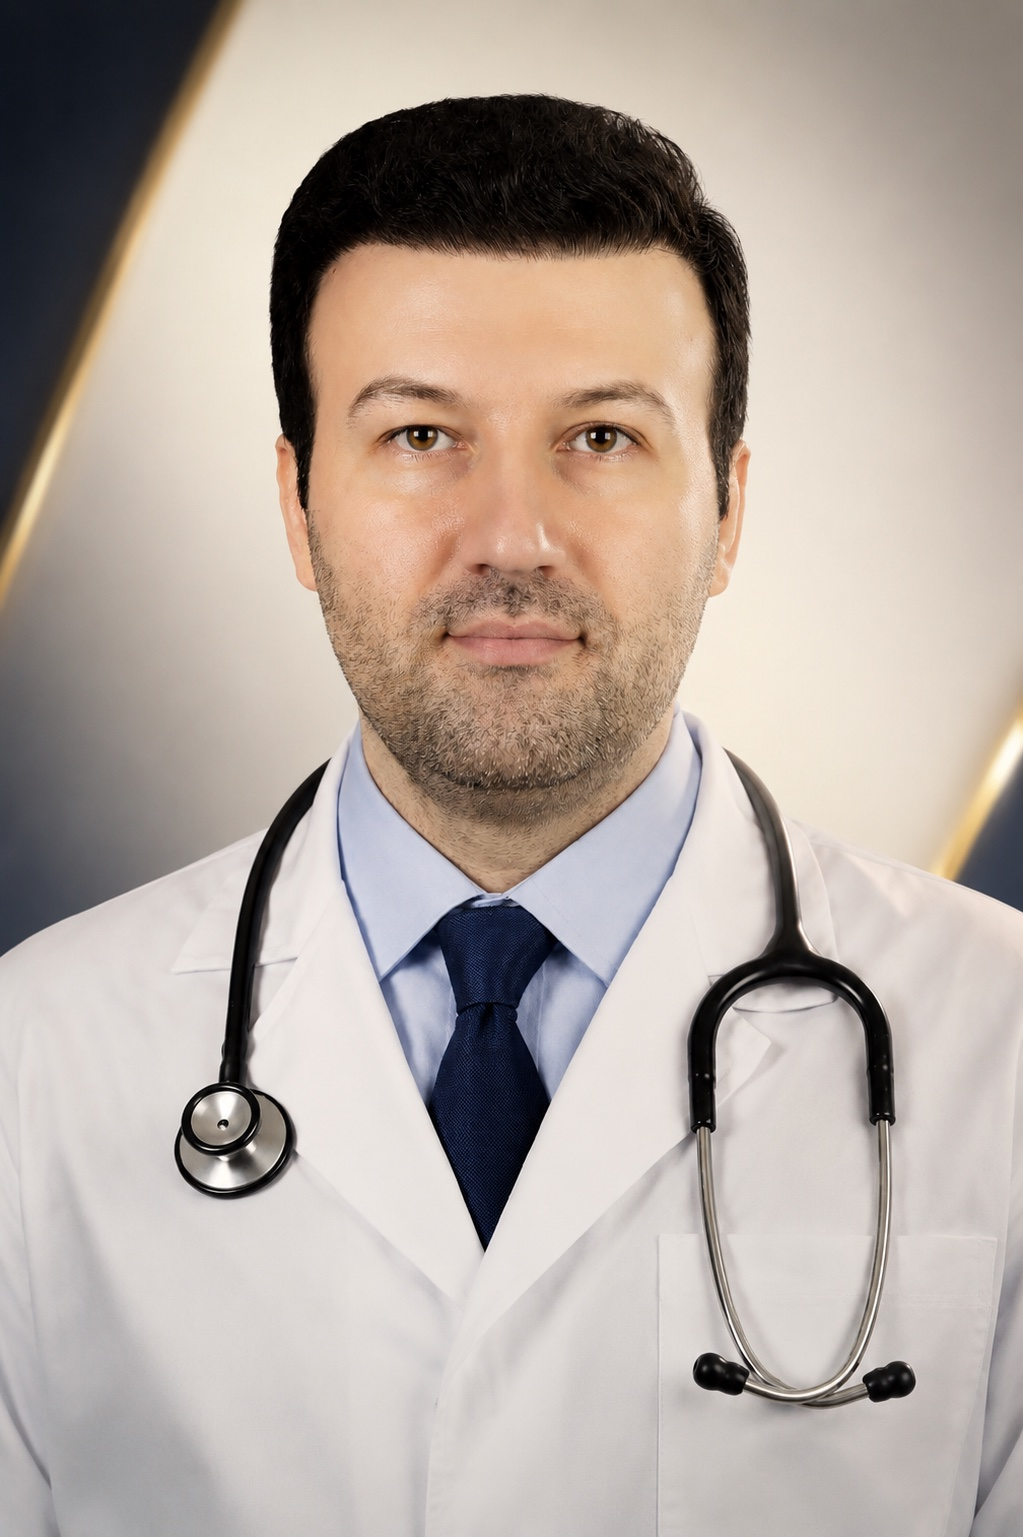
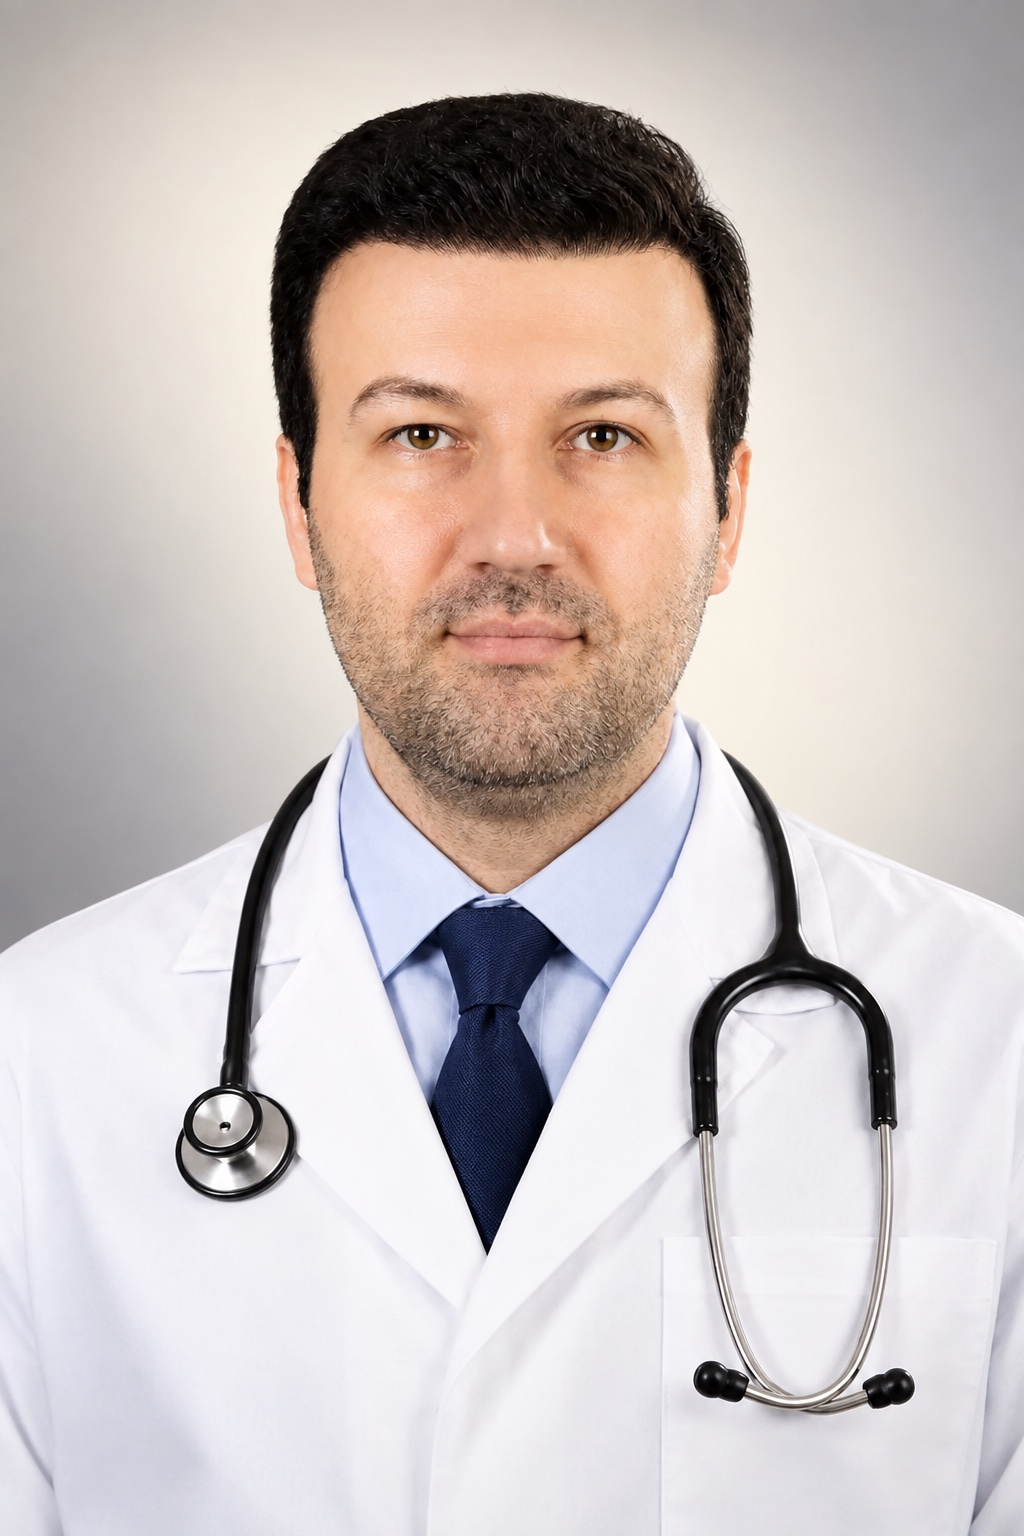
feat: improve contact and care experience

diff --git a/src/components/sections/homepage-care-section.tsx b/src/components/sections/homepage-care-section.tsx
@@ -1,0 +1,114 @@
+"use client";
+
+import { motion, useReducedMotion } from "framer-motion";
+
+import type { CareInstructionsPageDictionary } from "@/i18n/dictionary-types";
+import { localeHref } from "@/i18n/locale-href";
+import { LOCALE_DIRECTION, type Locale } from "@/i18n/locales";
+
+function CareStageIcon({ index }: { index: number }) {
+  if (index === 0) {
+    return (
+      <svg viewBox="0 0 24 24" fill="none" stroke="currentColor" strokeWidth={1.5} className="h-5 w-5 sm:h-6 sm:w-6">
+        <path d="M7 3v3M17 3v3M4.5 9h15M6 5h12a2 2 0 0 1 2 2v12H4V7a2 2 0 0 1 2-2Z" strokeLinecap="round" />
+        <path d="m9 14 2 2 4-4" strokeLinecap="round" strokeLinejoin="round" />
+      </svg>
+    );
+  }
+
+  if (index === 1) {
+    return (
+      <svg viewBox="0 0 24 24" fill="none" stroke="currentColor" strokeWidth={1.5} className="h-5 w-5 sm:h-6 sm:w-6">
+        <path d="M12 21a9 9 0 1 0 0-18 9 9 0 0 0 0 18Z" />
+        <path d="M12 7v10M7 12h10" strokeLinecap="round" />
+      </svg>
+    );
+  }
+
+  return (
+    <svg viewBox="0 0 24 24" fill="none" stroke="currentColor" strokeWidth={1.5} className="h-5 w-5 sm:h-6 sm:w-6">
+      <path d="M12 21a9 9 0 1 0 0-18 9 9 0 0 0 0 18Z" />
+      <path d="M12 8v5M12 16.5v.2" strokeLinecap="round" />
+    </svg>
+  );
+}
+
+export function HomepageCareSection({ dict, locale }: { dict: CareInstructionsPageDictionary; locale: Locale }) {
+  const shouldReduceMotion = useReducedMotion();
+  const stages = [dict.detail.beforeHeading, dict.detail.afterHeading, dict.detail.warningSignsHeading];
+
+  const fadeUp = (delay: number) => ({
+    initial: shouldReduceMotion ? false : { opacity: 0, y: 18 },
+    whileInView: shouldReduceMotion ? undefined : { opacity: 1, y: 0 },
+    viewport: { once: true, amount: 0.25 },
+    transition: { duration: shouldReduceMotion ? 0.01 : 0.55, delay: shouldReduceMotion ? 0 : delay, ease: [0.22, 1, 0.36, 1] as const },
+  });
+
+  return (
+    <section
+      id="care"
+      data-header-bg="#faf7f1"
+      dir={LOCALE_DIRECTION[locale]}
+      className="snap-section relative flex h-dvh items-center overflow-hidden bg-warm-white px-4 py-6 sm:px-8 sm:py-10"
+    >
+      <div aria-hidden className="pointer-events-none absolute -end-24 -top-24 h-80 w-80 rounded-full bg-gold/10 blur-3xl sm:h-[420px] sm:w-[420px]" />
+      <div aria-hidden className="pointer-events-none absolute -bottom-32 -start-24 h-80 w-80 rounded-full bg-deep-navy/[0.04] blur-3xl sm:h-[420px] sm:w-[420px]" />
+
+      <div className="relative mx-auto w-full max-w-6xl">
+        <div className="grid items-end gap-3 lg:grid-cols-[1.1fr_0.9fr] lg:gap-16">
+          <div>
+            <motion.p {...fadeUp(0)} className="text-xs font-semibold uppercase tracking-[0.2em] text-gold">
+              {dict.eyebrow}
+            </motion.p>
+            <motion.h2 {...fadeUp(0.06)} className="mt-2 max-w-2xl text-2xl font-extrabold leading-tight text-deep-navy sm:mt-3 sm:text-4xl lg:text-[44px]">
+              {dict.homepageHeading}
+            </motion.h2>
+          </div>
+          <motion.p {...fadeUp(0.12)} className="max-w-xl text-sm leading-6 text-charcoal/65 sm:text-base sm:leading-8 lg:pb-1">
+            {dict.subheading}
+          </motion.p>
+        </div>
+
+        <motion.div
+          {...fadeUp(0.18)}
+          className="relative mt-6 overflow-hidden rounded-2xl border border-charcoal/10 bg-cream/70 px-4 py-5 shadow-[0_34px_90px_-58px_rgba(15,23,42,0.5)] sm:mt-10 sm:rounded-[32px] sm:px-8 sm:py-9 lg:px-12"
+        >
+          <div aria-hidden className="absolute inset-x-12 top-[3.65rem] hidden h-px bg-gradient-to-r from-transparent via-gold/40 to-transparent sm:block" />
+          <ol className="relative grid grid-cols-1 gap-3 sm:grid-cols-3 sm:gap-6">
+            {stages.map((stage, index) => (
+              <motion.li
+                key={stage}
+                initial={shouldReduceMotion ? false : { opacity: 0, y: 14 }}
+                whileInView={shouldReduceMotion ? undefined : { opacity: 1, y: 0 }}
+                viewport={{ once: true, amount: 0.35 }}
+                transition={{ duration: shouldReduceMotion ? 0.01 : 0.45, delay: shouldReduceMotion ? 0 : 0.24 + index * 0.08, ease: [0.22, 1, 0.36, 1] }}
+                className="relative flex items-center gap-3 rounded-xl border border-charcoal/[0.07] bg-warm-white/80 p-3 sm:flex-col sm:items-start sm:border-0 sm:bg-transparent sm:p-0"
+              >
+                <span className="relative z-10 flex h-10 w-10 shrink-0 items-center justify-center rounded-full border border-gold/35 bg-warm-white text-gold shadow-[0_8px_24px_-12px_rgba(183,142,70,0.55)] sm:h-12 sm:w-12">
+                  <CareStageIcon index={index} />
+                </span>
+                <div className="min-w-0 sm:mt-5">
+                  <span className="text-[10px] font-semibold tracking-[0.2em] text-charcoal/35">0{index + 1}</span>
+                  <h3 className="mt-0.5 text-sm font-bold leading-6 text-charcoal sm:mt-1 sm:text-base lg:text-lg">{stage}</h3>
+                </div>
+              </motion.li>
+            ))}
+          </ol>
+
+          <div className="mt-5 flex flex-col gap-4 border-t border-charcoal/10 pt-5 sm:mt-8 sm:flex-row sm:items-center sm:justify-between sm:pt-7">
+            <p className="max-w-2xl text-xs leading-5 text-charcoal/55 sm:text-sm sm:leading-7">{dict.trustNote}</p>
+            <a
+              href={localeHref(locale, "/care-instructions")}
+              className="inline-flex w-fit shrink-0 items-center gap-2 rounded-full bg-deep-navy px-5 py-2.5 text-xs font-semibold text-warm-white transition-[background-color,color,transform] duration-300 hover:-translate-y-0.5 hover:bg-gold hover:text-deep-navy focus-visible:outline-2 focus-visible:outline-offset-2 focus-visible:outline-gold sm:px-6 sm:py-3 sm:text-sm"
+            >
+              {dict.homepageCta}
+              <svg aria-hidden viewBox="0 0 20 20" fill="none" stroke="currentColor" strokeWidth={1.5} className="h-4 w-4 rtl:rotate-180">
+                <path d="m7 4 6 6-6 6" strokeLinecap="round" strokeLinejoin="round" />
+              </svg>
+            </a>
+          </div>
+        </motion.div>
+      </div>
+    </section>
+  );
+}

diff --git a/src/app/[locale]/contact/page.tsx b/src/app/[locale]/contact/page.tsx
@@ -8,6 +8,9 @@ import { buildLocalizedPageMetadata } from "@/core/seo-metadata.server";
 import { getDictionary } from "@/i18n/get-dictionary";
 import { isSupportedLocale } from "@/i18n/locales";
 
+const GOOGLE_MAPS_EMBED_URL = "https://www.google.com/maps?q=38.058541996504964,46.36988216151677&z=16&output=embed";
+const GOOGLE_MAPS_SHARE_URL = "https://maps.app.goo.gl/BXsmxvB9qvEx2ZwMA";
+
 export async function generateMetadata({ params }: { params: Promise<{ locale: string }> }): Promise<Metadata> {
   const { locale } = await params;
   if (!isSupportedLocale(locale)) return {};
@@ -61,11 +64,10 @@ function IconClock({ className }: { className?: string }) {
 /**
  * Round 2026-07-13 (design-quality pass): rebuilt from three stacked
  * bordered-card sections to a single editorial contact panel (icon rows,
- * no boxed cards) alongside a quiet map-ready placeholder — no fake
- * embedded map, since no map provider/API key exists yet (documented
- * inline, not silently faked). Data unchanged, still sourced from
- * `footer.locations`/`footer.hours`/`footer.instagram` — single source
- * of truth, same real address/phone/hours the footer shows.
+ * no boxed cards). The clinic map uses a lazy iframe at the approved exact
+ * coordinates, without a Maps SDK or API key. Contact data remains sourced
+ * from `footer.locations`/`footer.hours`/`footer.instagram` — the same real
+ * address, phone, and hours the footer shows.
  */
 export default async function ContactPage({ params }: { params: Promise<{ locale: string }> }) {
   const { locale } = await params;
@@ -130,13 +132,35 @@ export default async function ContactPage({ params }: { params: Promise<{ locale
             </div>
           </Reveal>
 
-          {/* Map-ready placeholder — no map provider/API key exists yet; a
-              real embed is a separate, explicitly-scoped integration, not
-              faked here. */}
           <Reveal delay={0.1}>
-            <div className="flex h-full min-h-[280px] flex-col items-center justify-center rounded-2xl border border-charcoal/10 bg-cream text-center">
-              <IconPin className="h-8 w-8 text-charcoal/25" />
-              <p className="mt-3 max-w-[220px] text-xs leading-5 text-charcoal/40">{footer.locations.tabriz.label}</p>
+            <div className="overflow-hidden rounded-2xl border border-charcoal/10 bg-cream shadow-[0_28px_70px_-42px_rgba(15,23,42,0.45)] sm:rounded-[28px]">
+              <div className="relative min-h-[280px] overflow-hidden bg-charcoal/5 lg:min-h-[360px]">
+                <iframe
+                  src={GOOGLE_MAPS_EMBED_URL}
+                  title={contact.mapTitle}
+                  loading="lazy"
+                  referrerPolicy="no-referrer-when-downgrade"
+                  className="absolute inset-0 h-full w-full border-0 grayscale-[0.12] contrast-[0.96]"
+                />
+                <div aria-hidden className="pointer-events-none absolute inset-0 ring-1 ring-inset ring-charcoal/5" />
+              </div>
+              <div className="flex items-center justify-between gap-4 border-t border-charcoal/10 px-5 py-4 sm:px-6">
+                <div className="min-w-0">
+                  <p className="text-xs font-semibold uppercase tracking-[0.16em] text-gold">{contact.locationsHeading}</p>
+                  <p className="mt-1 truncate text-sm text-charcoal/60">{footer.locations.tabriz.label}</p>
+                </div>
+                <a
+                  href={GOOGLE_MAPS_SHARE_URL}
+                  target="_blank"
+                  rel="noopener noreferrer"
+                  className="inline-flex shrink-0 items-center gap-2 rounded-full border border-charcoal/15 px-4 py-2 text-xs font-semibold text-charcoal transition-[color,border-color,background-color] duration-200 hover:border-gold hover:bg-warm-white hover:text-gold focus-visible:outline-2 focus-visible:outline-offset-2 focus-visible:outline-gold sm:text-sm"
+                >
+                  {contact.mapCta}
+                  <svg aria-hidden viewBox="0 0 20 20" fill="none" stroke="currentColor" strokeWidth={1.5} className="h-4 w-4">
+                    <path d="M7 5h8v8M15 5 6 14" strokeLinecap="round" strokeLinejoin="round" />
+                  </svg>
+                </a>
+              </div>
             </div>
           </Reveal>
         </div>

diff --git a/src/i18n/dictionaries/ar.ts b/src/i18n/dictionaries/ar.ts
@@ -49,9 +49,9 @@ export const header = {
     { href: "#services", label: "الخدمات" },
     { href: "/ar/before-after", label: "قبل وبعد" },
     { href: "#faq", label: "الأسئلة الشائعة" },
-    { href: "#videos", label: "الفيديوهات" },
+    { href: "/ar/care-instructions", label: "العناية" },
     { href: "/ar/knowledge", label: "مركز المعرفة" },
-    { href: "#contact", label: "تواصل معنا" },
+    { href: "/ar/contact", label: "تواصل معنا" },
   ],
   ctaLabel: "احجز استشارة",
   openMenuLabel: "فتح القائمة",
@@ -75,9 +75,8 @@ export const footer = {
   guide: [
     { label: "قبل وبعد", href: "/ar/before-after" },
     { label: "الأسئلة الشائعة", href: "#faq" },
-    { label: "الفيديوهات", href: "#videos" },
     { label: "مركز المعرفة", href: "/ar/knowledge" },
-    { label: "تواصل معنا", href: "#contact" },
+    { label: "تواصل معنا", href: "/ar/contact" },
     { label: "عن الطبيب", href: "/ar/about" },
     { label: "الخدمات العلاجية", href: "/ar/services" },
     { label: "السياحة العلاجية", href: "/ar/health-tourism" },
@@ -776,6 +775,8 @@ const contact = {
   ctaButton: "بدء محادثة مع المساعد الذكي",
   locationsHeading: "مكاتب العيادة",
   hoursHeading: "ساعات العمل",
+  mapTitle: "موقع عيادة الدكتور علیرضا صدیقی على خرائط Google",
+  mapCta: "عرض الموقع على خرائط Google",
 } satisfies ContactPageDictionary;
 
 const servicesPage = {
@@ -1215,6 +1216,8 @@ const careInstructions = {
   eyebrow: "دليل المرضى",
   heading: "تعليمات ما قبل وبعد الإجراء",
   subheading: "إرشادات عامة للعناية، للاستعداد قبل الجراحة والتعافي الهادئ بعدها.",
+  homepageHeading: "العناية قبل الإجراء وبعده",
+  homepageCta: "عرض أدلة العناية",
   trustNote: "أُعدّت هذه الأدلة بإشراف الفريق الطبي للعيادة، وهي مكمّلة لتعليمات الطبيب المباشرة لا بديلاً عنها.",
   viewGuideCta: "عرض الدليل",
   safetyNote: "هذه الإرشادات للتوعية العامة بالعناية ولا تغني عن تعليمات الطبيب المباشرة.",

diff --git a/src/app/[locale]/page.tsx b/src/app/[locale]/page.tsx
@@ -38,7 +38,7 @@ const CaseGallerySection = dynamic(() => import("@/components/sections/case-gall
 const PatientJourneySection = dynamic(() => import("@/components/sections/patient-journey-section").then((m) => m.PatientJourneySection));
 const PatientStoriesSection = dynamic(() => import("@/components/sections/patient-stories-section").then((m) => m.PatientStoriesSection));
 const KnowledgeCenterSection = dynamic(() => import("@/components/sections/knowledge-center-section").then((m) => m.KnowledgeCenterSection));
-const VideoHubSection = dynamic(() => import("@/components/sections/video-hub-section").then((m) => m.VideoHubSection));
+const HomepageCareSection = dynamic(() => import("@/components/sections/homepage-care-section").then((m) => m.HomepageCareSection));
 const FaqSection = dynamic(() => import("@/components/sections/faq-section").then((m) => m.FaqSection));
 
 export async function generateMetadata({ params }: { params: Promise<{ locale: string }> }): Promise<Metadata> {
@@ -59,8 +59,8 @@ export async function generateMetadata({ params }: { params: Promise<{ locale: s
  * 2026-07-07 — see git history for the placement rationale of each
  * section below (Hero → Smart Clinic Assistant → Featured Services → Why
  * Dr. Sadighi → Case Gallery/Before-After → Patient Journey → Patient
- * Stories → Knowledge Center → Video Hub → FAQ), none of that changed in
- * this round.
+ * Stories → Knowledge Center → Care → FAQ). The former Video Hub slot was
+ * intentionally replaced with the patient-care gateway in 2026-09.
  *
  * Round 2026-07-13 (docs/adr/0005): `en`/`ar` were first given a minimal
  * "coming soon" holding page instead of the real homepage body, since
@@ -112,7 +112,7 @@ export default async function HomePage({
       <PatientJourneySection dict={dict.patientJourney} locale={locale} />
       <PatientStoriesSection dict={dict.patientStories} locale={locale} instagramHandle={dict.footer.instagram} />
       <KnowledgeCenterSection dict={dict.knowledgeCenter} locale={locale} articles={knowledgeCenterArticles} />
-      <VideoHubSection dict={dict.videoHub} locale={locale} />
+      <HomepageCareSection dict={dict.careInstructions} locale={locale} />
       <FaqSection dict={dict.faqSection} locale={locale} />
     </main>
   );

diff --git a/src/i18n/dictionaries/fa.ts b/src/i18n/dictionaries/fa.ts
@@ -19,6 +19,8 @@ export const careInstructions: CareInstructionsPageDictionary = {
   eyebrow: "راهنمای بیماران",
   heading: "مراقبتهای قبل و بعد عمل",
   subheading: "راهنماهای عمومی مراقبت، برای آمادگی پیش از عمل و بهبودی آرام پس از آن.",
+  homepageHeading: "مراقبتهای قبل و بعد از عمل",
+  homepageCta: "مشاهده راهنمای مراقبتها",
   trustNote: "این راهنماها زیر نظر تیم درمانی کلینیک تهیه شدهاند و مکمل دستور مستقیم پزشکاند، نه جایگزین آن.",
   viewGuideCta: "مشاهده",
   safetyNote:
@@ -526,9 +528,9 @@ export const fa = {
       { href: "#services", label: "خدمات" },
       { href: "/before-after", label: "قبل و بعد" },
       { href: "#faq", label: "سوالات متداول" },
-      { href: "#videos", label: "ویدئوها" },
+      { href: "/care-instructions", label: "مراقبتها" },
       { href: "/knowledge", label: "دانشنامه" },
-      { href: "#contact", label: "تماس" },
+      { href: "/contact", label: "تماس" },
     ],
     ctaLabel: "رزرو مشاوره",
     openMenuLabel: "باز کردن منو",
@@ -1032,9 +1034,8 @@ export const fa = {
     guide: [
       { label: "قبل و بعد", href: "/before-after" },
       { label: "سوالات متداول", href: "#faq" },
-      { label: "ویدئوها", href: "#videos" },
       { label: "دانشنامه", href: "/knowledge" },
-      { label: "تماس", href: "#contact" },
+      { label: "تماس", href: "/contact" },
       // Added 2026-07-13 (delivery-mode round) — real dedicated pages now
       // exist; these are absolute (locale-prefixed) paths, not in-page
       // anchors like the entries above.
@@ -1605,6 +1606,8 @@ export const fa = {
     ctaButton: "شروع گفتگو با دستیار هوشمند",
     locationsHeading: "دفاتر کلینیک",
     hoursHeading: "ساعات کاری",
+    mapTitle: "موقعیت کلینیک دکتر علیرضا صدیقی در Google Maps",
+    mapCta: "مشاهده در Google Maps",
   },
 
   // Renamed key (not `services`, which is already the homepage's

diff --git a/src/i18n/dictionaries/en.ts b/src/i18n/dictionaries/en.ts
@@ -49,9 +49,9 @@ export const header = {
     { href: "#services", label: "Services" },
     { href: "/en/before-after", label: "Before & After" },
     { href: "#faq", label: "FAQ" },
-    { href: "#videos", label: "Videos" },
+    { href: "/en/care-instructions", label: "Care" },
     { href: "/en/knowledge", label: "Knowledge Center" },
-    { href: "#contact", label: "Contact" },
+    { href: "/en/contact", label: "Contact" },
   ],
   ctaLabel: "Book a Consultation",
   openMenuLabel: "Open menu",
@@ -76,9 +76,8 @@ export const footer = {
   guide: [
     { label: "Before & After", href: "/en/before-after" },
     { label: "FAQ", href: "#faq" },
-    { label: "Videos", href: "#videos" },
     { label: "Knowledge Center", href: "/en/knowledge" },
-    { label: "Contact", href: "#contact" },
+    { label: "Contact", href: "/en/contact" },
     { label: "About the Doctor", href: "/en/about" },
     { label: "Treatments", href: "/en/services" },
     { label: "Health Tourism", href: "/en/health-tourism" },
@@ -792,6 +791,8 @@ const contact = {
   ctaButton: "Start a conversation with the Assistant",
   locationsHeading: "Clinic Locations",
   hoursHeading: "Hours",
+  mapTitle: "Dr. Alireza Sadighi Clinic location on Google Maps",
+  mapCta: "View on Google Maps",
 } satisfies ContactPageDictionary;
 
 const servicesPage = {
@@ -1249,6 +1250,8 @@ const careInstructions = {
   eyebrow: "Patient Guide",
   heading: "Pre & Post Procedure Care",
   subheading: "General care guidance for preparing before surgery and a calm recovery afterward.",
+  homepageHeading: "Pre- and Post-Procedure Care",
+  homepageCta: "View Care Guides",
   trustNote: "These guides are prepared under the clinic's medical team and complement — not replace — your doctor's direct instructions.",
   viewGuideCta: "View Guide",
   safetyNote: "These guides are for general care awareness and do not replace direct medical instructions from your doctor.",

diff --git a/src/i18n/dictionary-types.ts b/src/i18n/dictionary-types.ts
@@ -527,6 +527,8 @@ export interface ContactPageDictionary {
   ctaButton: string;
   locationsHeading: string;
   hoursHeading: string;
+  mapTitle: string;
+  mapCta: string;
 }
 
 export interface ServiceDetail {
@@ -725,6 +727,8 @@ export interface CareInstructionsPageDictionary {
   eyebrow: string;
   heading: string;
   subheading: string;
+  homepageHeading: string;
+  homepageCta: string;
   trustNote: string;
   viewGuideCta: string;
   safetyNote: string;
